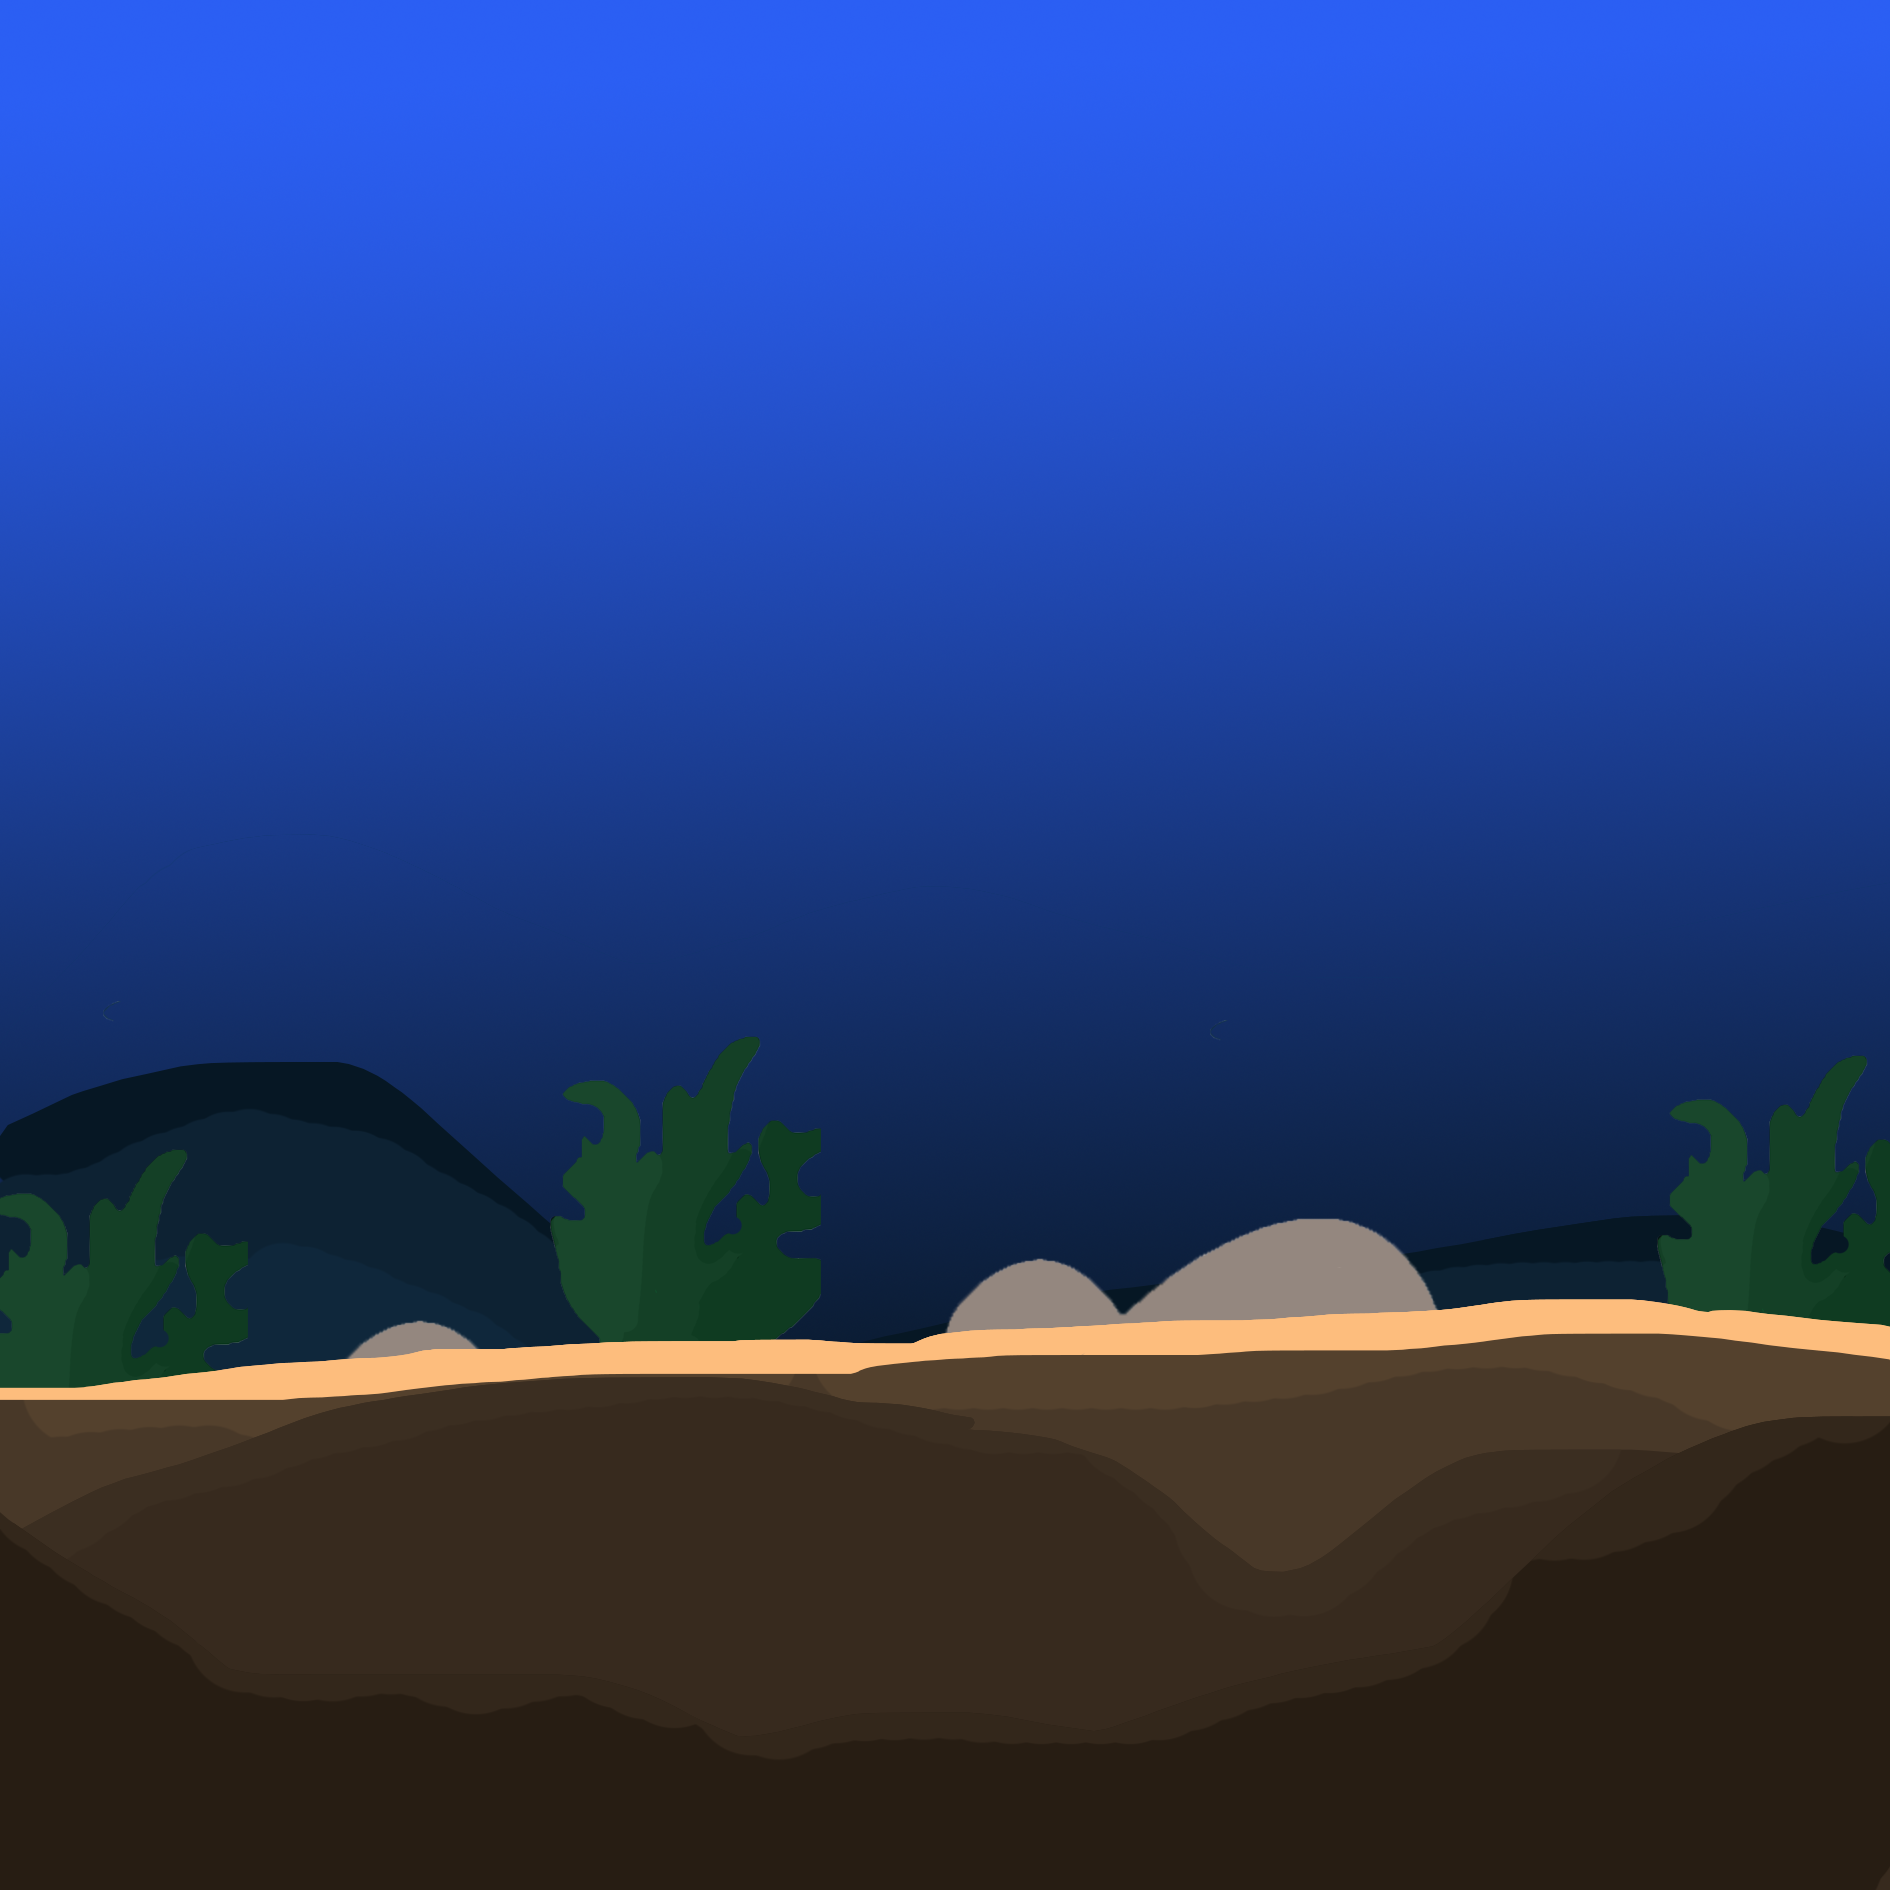
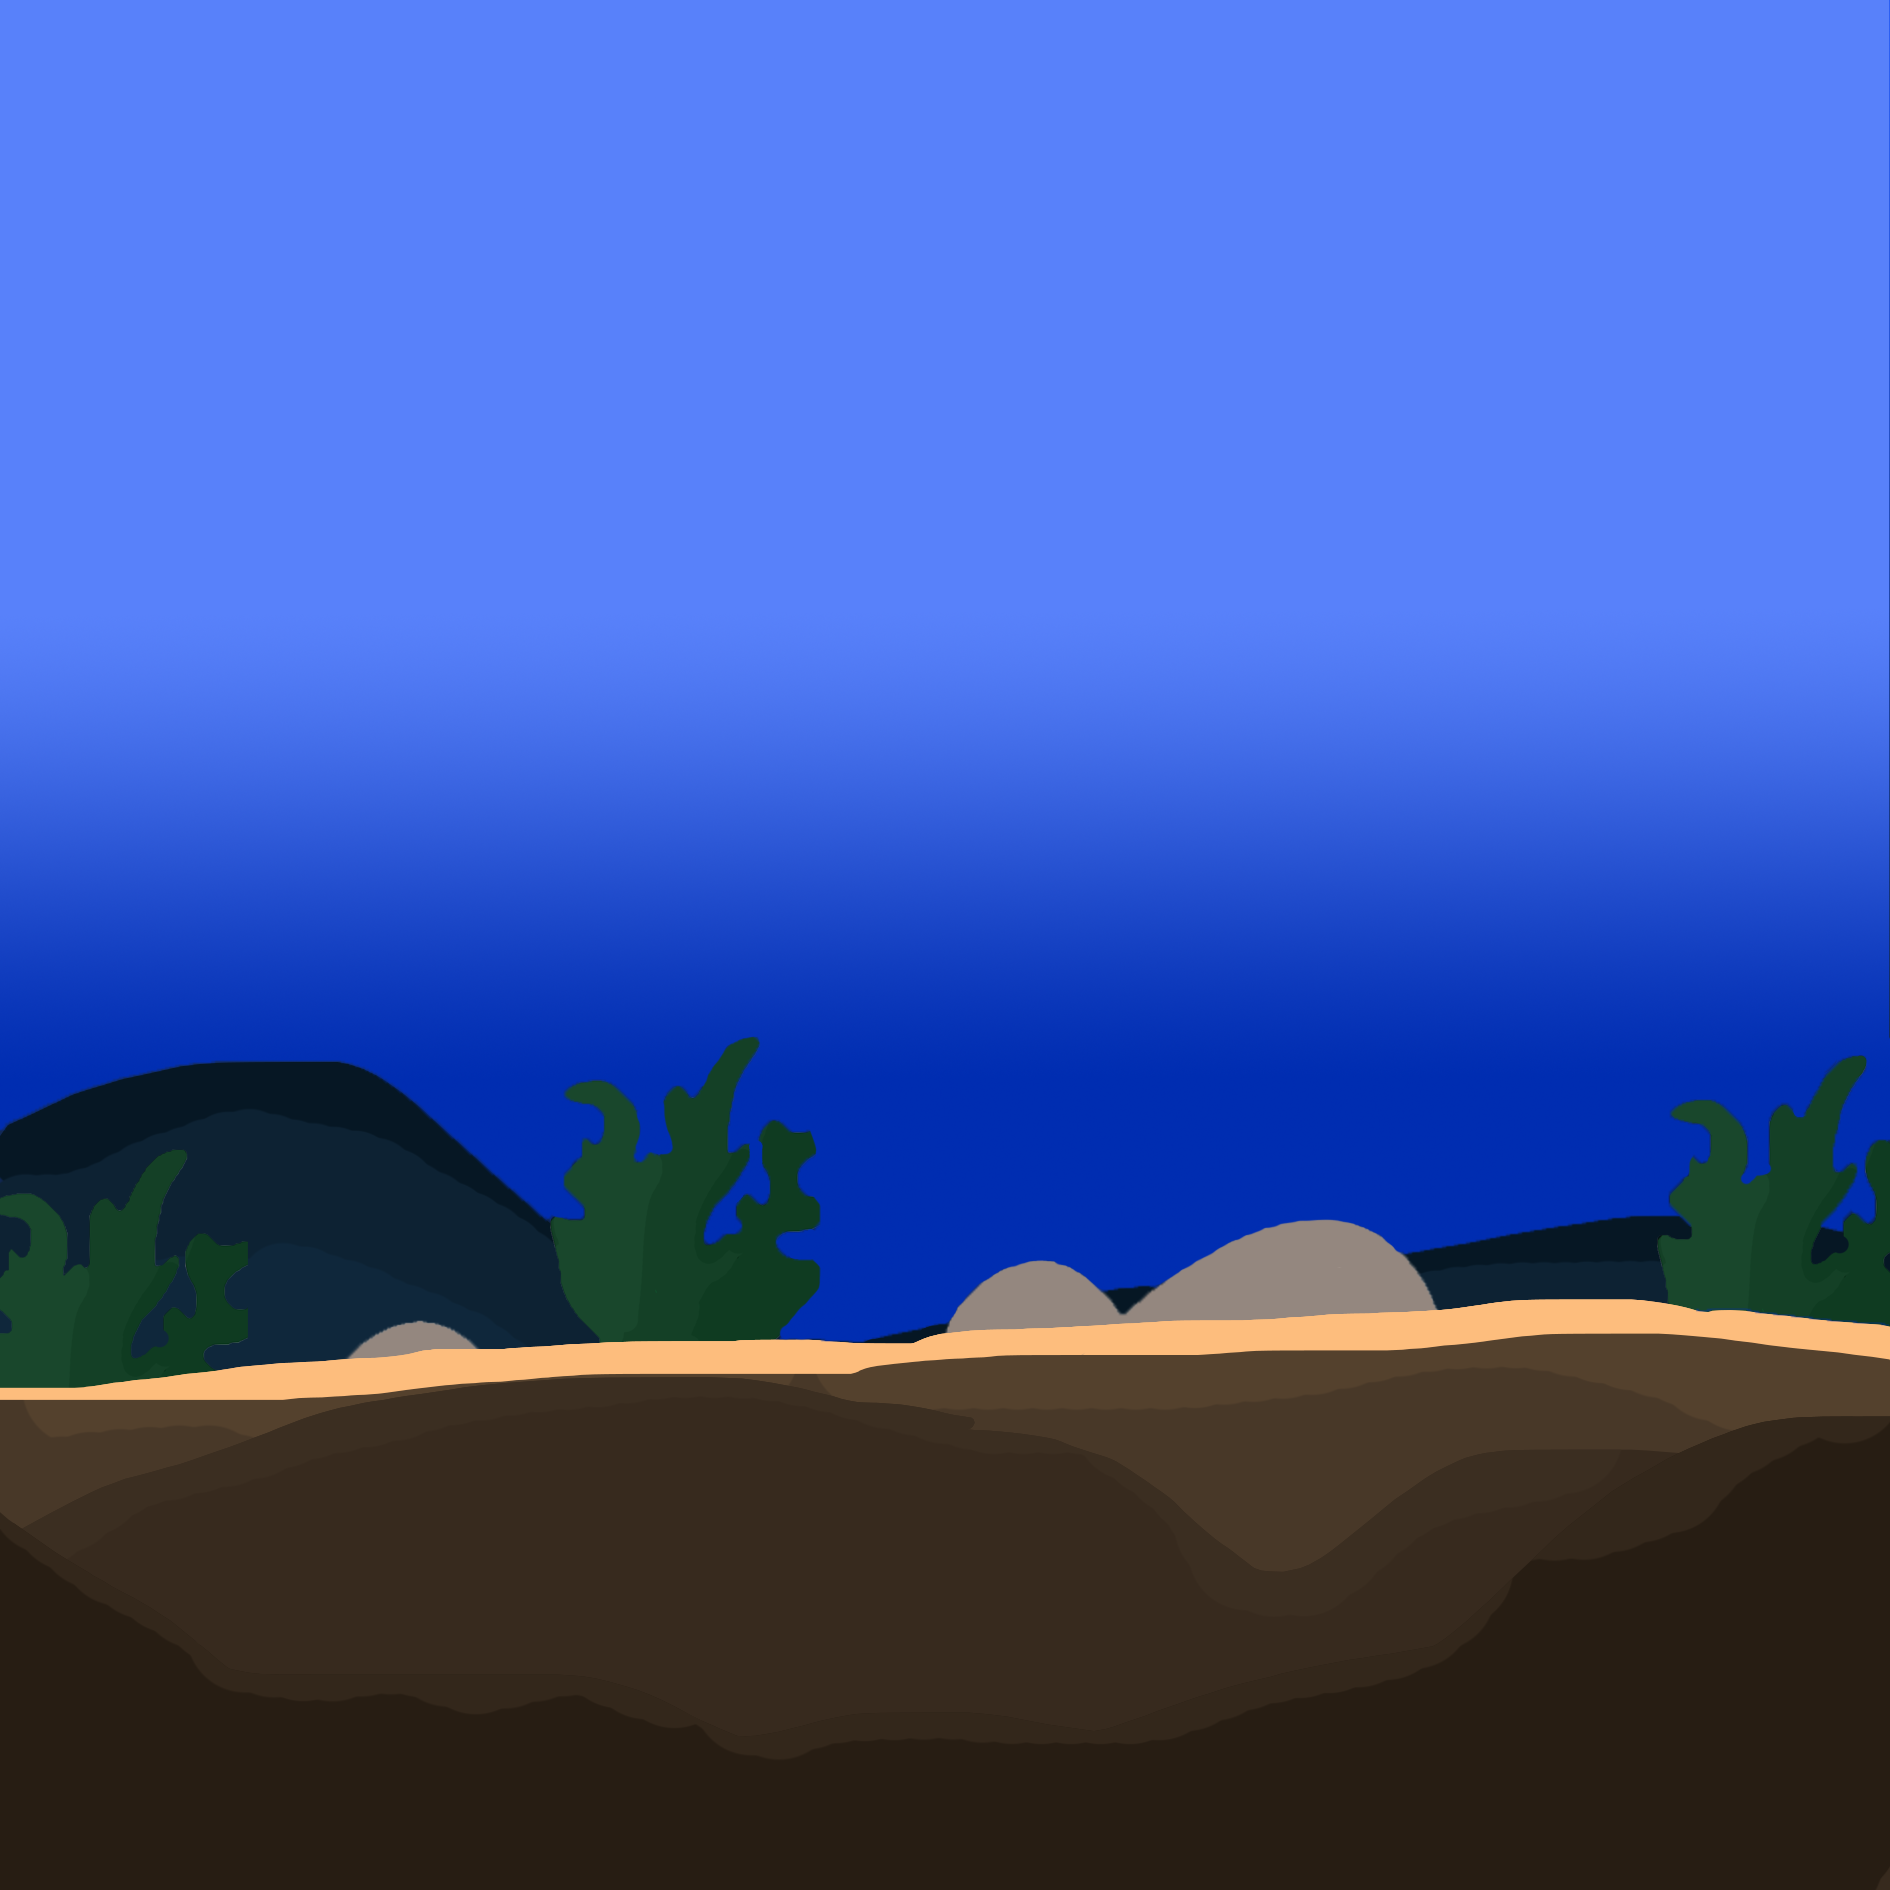
quick

diff --git a/index.html b/index.html
@@ -291,15 +291,9 @@
         <div class="card" style="border: 0px;display: none" id = "research">
             <div class="card" style="margin: 0; border: 0px">
                 <h5 class="card-header">
-                    <p class="card-text">In 2016-2017, I worked at <span class = "redbol"> Toronto Hacker Club </span> (also known as <span class = "redbol"> TOHC </span>). I was offered a job as an event coordinator and worked on their logistics team, while also doing some very limited front end development. Below are some of the events I helped organize (and in the case of THacks 2, I also mentored at).</p>
+                    <p class="card-text">In the summer of 2019, I did research at <span class = "bluemain">Carleton College</span> through their <span class = "bluemain">SCSI</span> program. Here are the results from across our 3 test batches: </p>
                 </h5>
                 <div class="card" style="margin: 0; border: 0px;border-bottom: 1px solid; margin-bottom: 10px">
-                    <h5 class="card-title">
-                        <div class="text-center" style="margin-top: 2%">
-                            <h3>Coding Related Prizes</h3>
-                            <hr style = "width: 40%; border: 1px solid; color: blue">
-                        </div>
-                    </h5>
                     <div class="row no-gutters">
                         <div class="col-md-6">
                           <div class="text-center" style="margin-top: 2%">

diff --git a/assets/js/script.js b/assets/js/script.js
@@ -10,7 +10,7 @@ highlighall = ["1","2","3","4","5","6","7","8","9","10","11"];
 function start(){
     var val = Math.random();
     
-    if (val <= 1){
+    if (val <= 0){
         turnred();
         
         document.getElementById(currflex).id = "fluxtextr";
@@ -113,7 +113,7 @@ function turnblue() {
     }
     document.getElementById("2").innerHTML = "learn!";
     
-    document.getElementById("cov").src = "img/cover2.png";
+    document.getElementById("cov").src = "img/Blue_Theme_Res/cover2.png";
     
     text = ["Research Papers", "Extended Essays", "Independent Assessments", "Math Proofs", "Latin Explorations", "Physics/Chem Labs", "Science Write Ups"];
     
